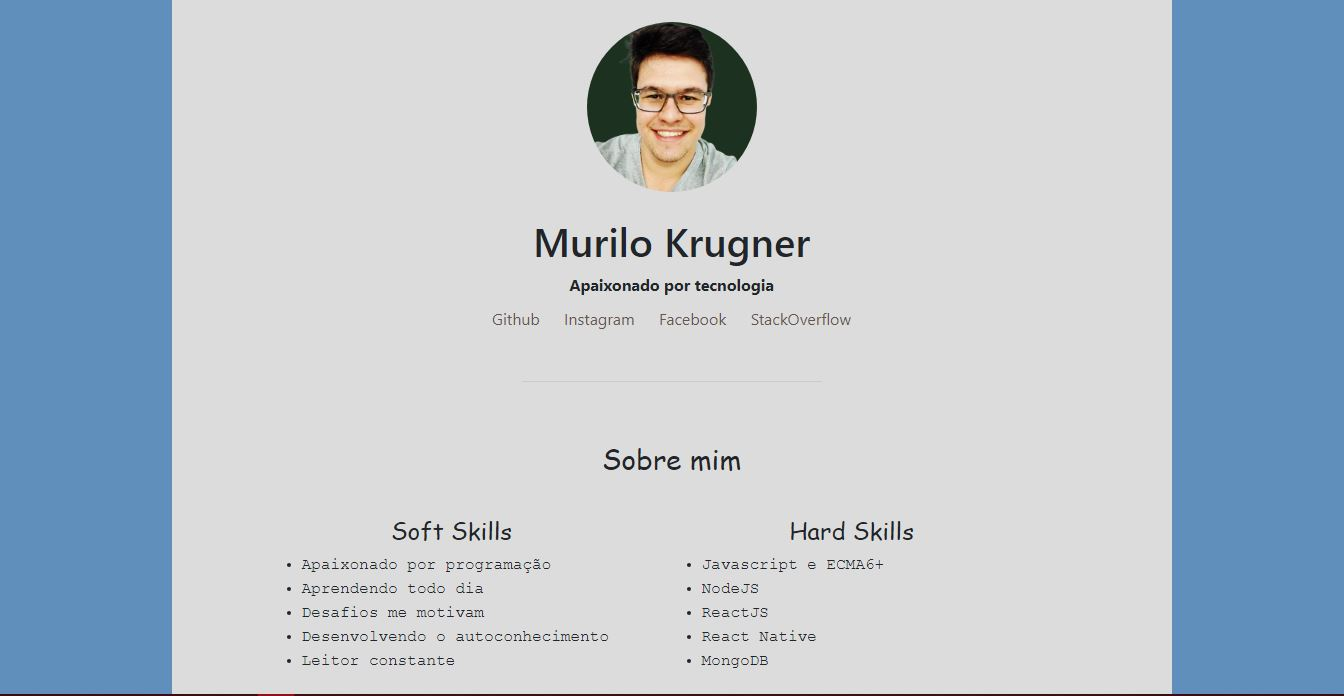
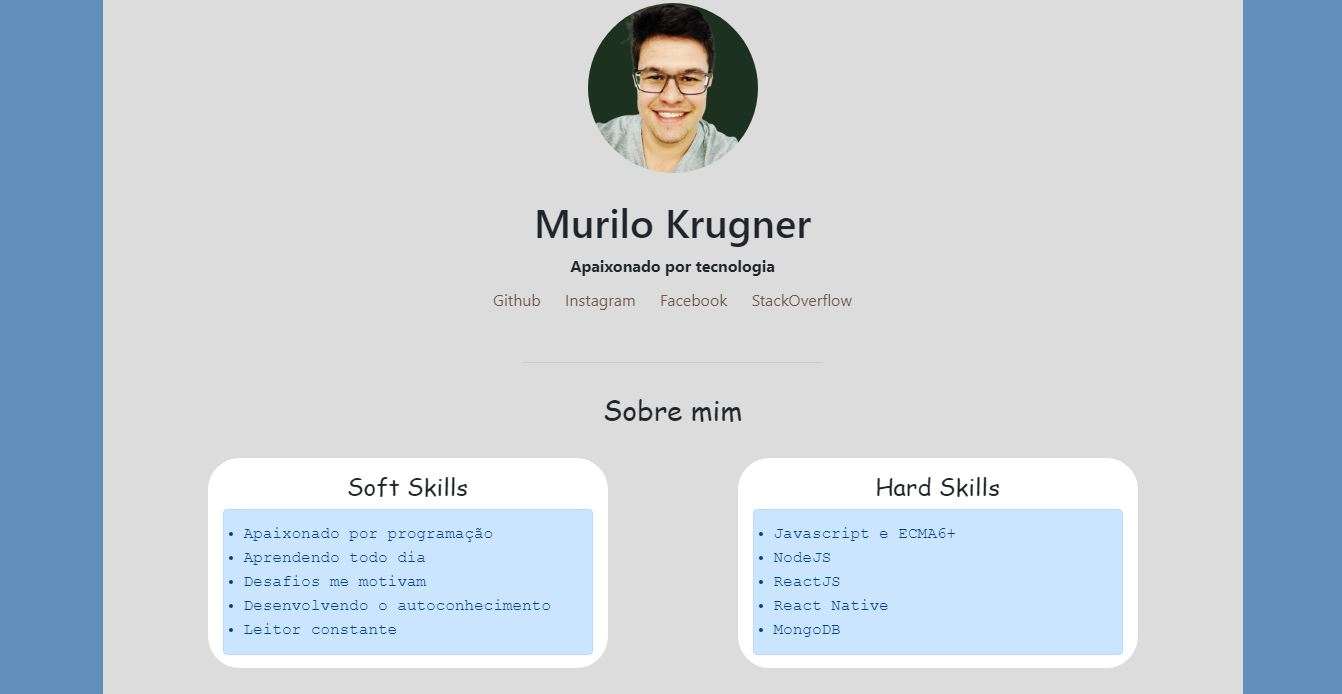
adicionando layout resposivo

diff --git a/src/css/styles.css b/src/css/styles.css
@@ -10,18 +10,36 @@
 /* .menu { width:400px; } */
 }
 
-body {background-color: #608FBB}
+body {background-color: #608FBB;}
+
+* {
+    margin: 0;
+    padding: 0;
+    -webkit-boz-sizing: border-box;
+        -moz-boz-sizing: border-box;
+             boz-sizing: border-box;
+}
+
+
 
 .container {
     background-color: #DCDCDC;
-    padding: 20px;
+    padding: 0 20px;
     height: 1000px;
-    width: 1000px;
+    width: 100%;
+    position: relative;
+    margin-left: auto;
+    margin-right: auto;
 }
 
 .box1 {
     flex: 1;
     flex-direction: column;
+    margin-left: auto;
+    margin-right: auto;
+    width: 100%;
+    padding: 0 20px;
+    position: relative;
 }
 
 .divider {
@@ -35,15 +53,18 @@ body {background-color: #608FBB}
 .box2 {
    flex: 1;
    flex-direction: column;
-   padding: 20px;
-   margin: 40px;
+   margin-left: auto;
+   margin-right: auto;
+   width: 100%;
+   padding: 0 20px;
+   position: relative;
 }
 
 .hero-image {
     border-radius: 50%;
-    width: 170px;
     height: 170px;
     margin: 25px 0;
+    max-width: 100%;
 }
 
 
@@ -80,8 +101,13 @@ a {
 }
 .skills {
     height: 300px;
-    width: 800px;
     display: flex;
+    width: 100%;
+    position: relative;
+    margin-left: auto;
+    margin-right: auto;
+    
+    
 }
 
 .h4Soft {
@@ -94,10 +120,18 @@ a {
 
 .boxSoft {
     padding: 10px;
-    height: 400px;
+    height: 210px;
     width: 400px;
     flex-direction: row;
     justify-content: flex-start;
+    position: relative;
+    margin-left: auto;
+    margin-right: auto;
+    align-content: center;
+    border: solid thick white;
+    border-radius: 2em;
+    background-color: white;
+    
 }
 
 .boxSoft li {
@@ -110,10 +144,17 @@ a {
 
 .boxHard {
     padding: 10px;
-    height: 400px;
+    height: 210px;
     width: 400px;
     flex-direction: row;
     justify-content: flex-end;
+    position: relative;
+    margin-left: auto;
+    margin-right: auto;
+    align-content: center;
+    border: solid thick white;
+    border-radius: 2em;
+    background-color: white;
 }
 
 /*https://origamid.com/projetos/flexbox-guia-completo/*/

diff --git a/index.html b/index.html
@@ -41,7 +41,7 @@
                     <div class="skills">
                         <div class="boxSoft">
                             <h4 class="h4Soft" align="center">Soft Skills</h4>
-                            <ul>
+                            <ul class="alert alert-primary">
                                 <li>Apaixonado por programação</li>
                                 <li>Aprendendo todo dia</li>
                                 <li>Desafios me motivam</li>
@@ -52,7 +52,7 @@
 
                         <div class="boxHard">
                             <h4 class="h4Hard" align="center">Hard Skills</h4>
-                            <ul>
+                            <ul class="alert alert-primary">
                                 <li>Javascript e ECMA6+</li>
                                 <li>NodeJS</li>
                                 <li>ReactJS</li>

diff --git a/README.md b/README.md
@@ -1,0 +1,3 @@
+#Bem vindo ao meu portfólio!
+
+![Meu Portfólio](https://github.com/murilokrugner/meuPortfolio/blob/master/src/img/person.JPG)
